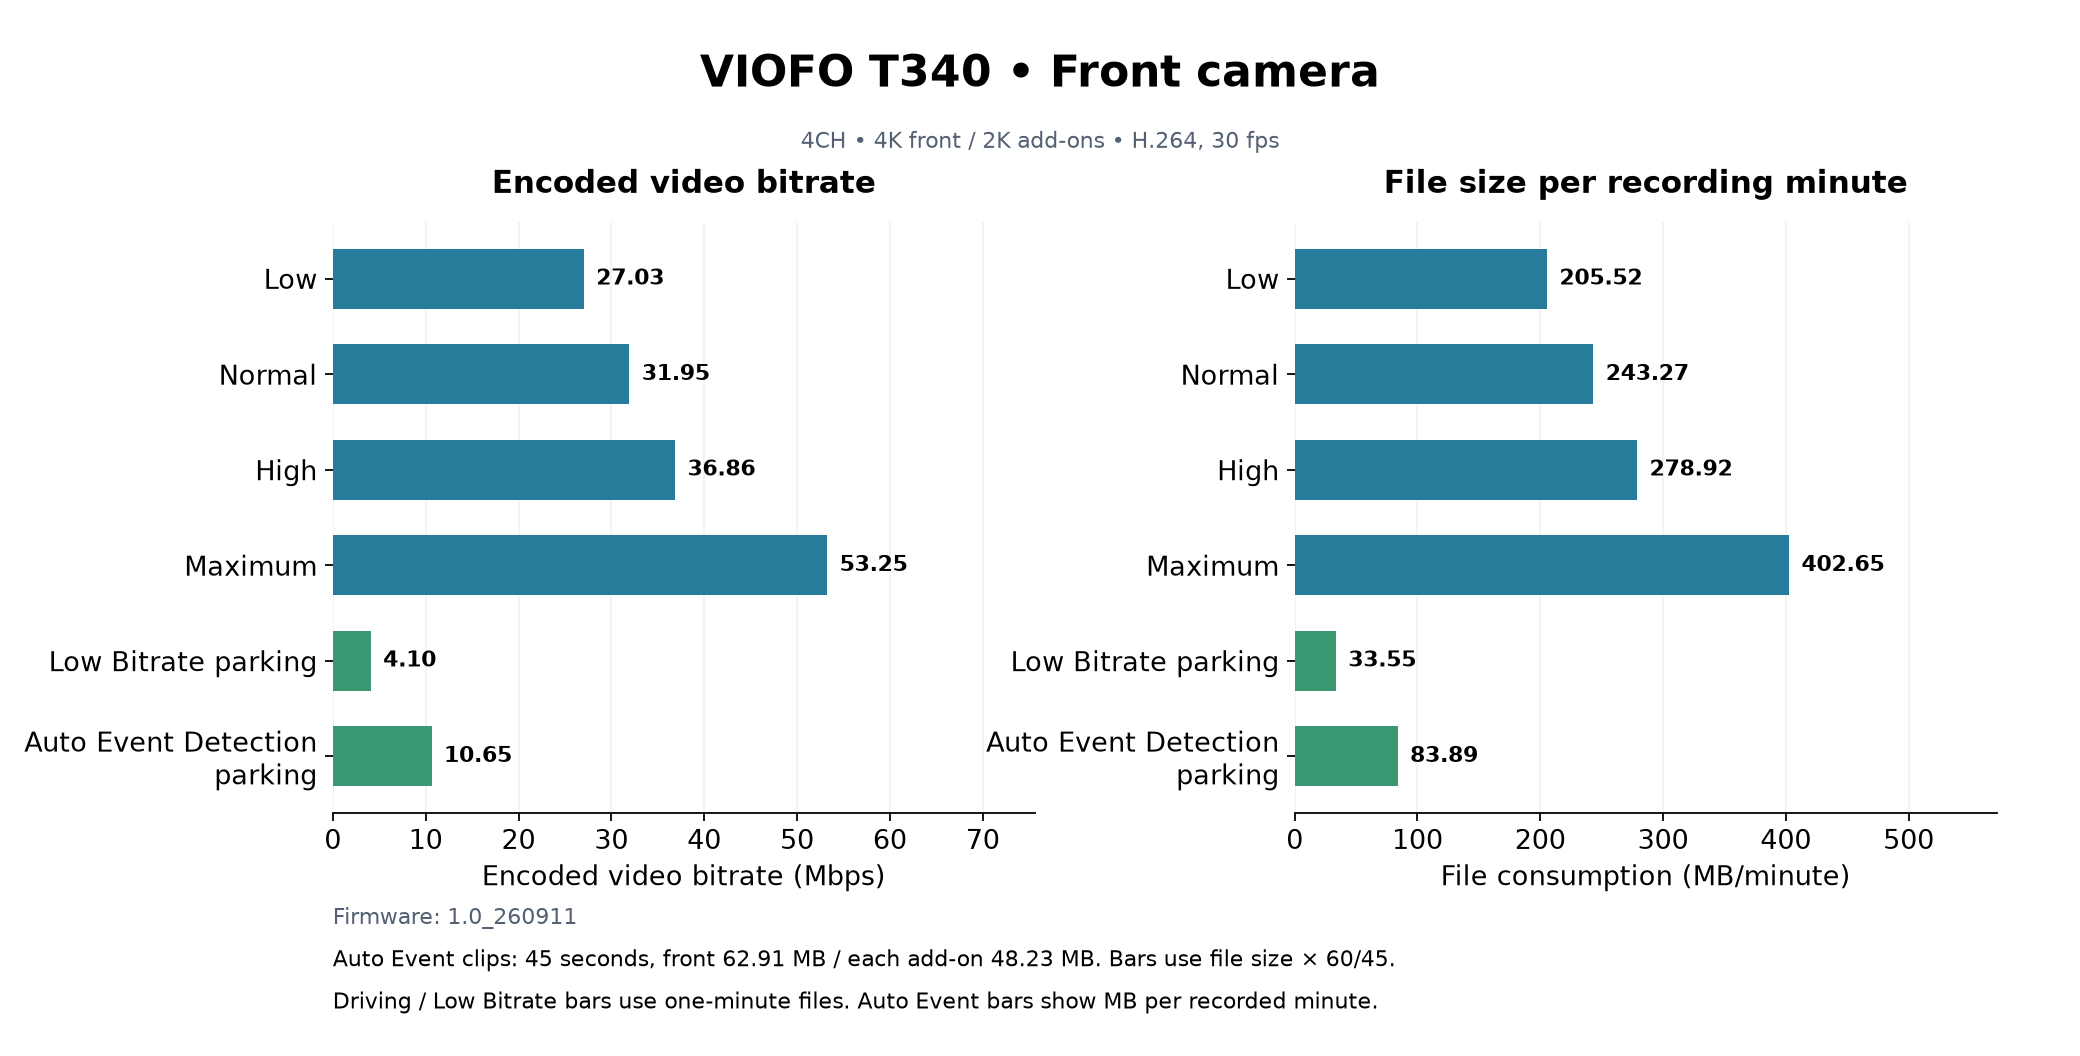
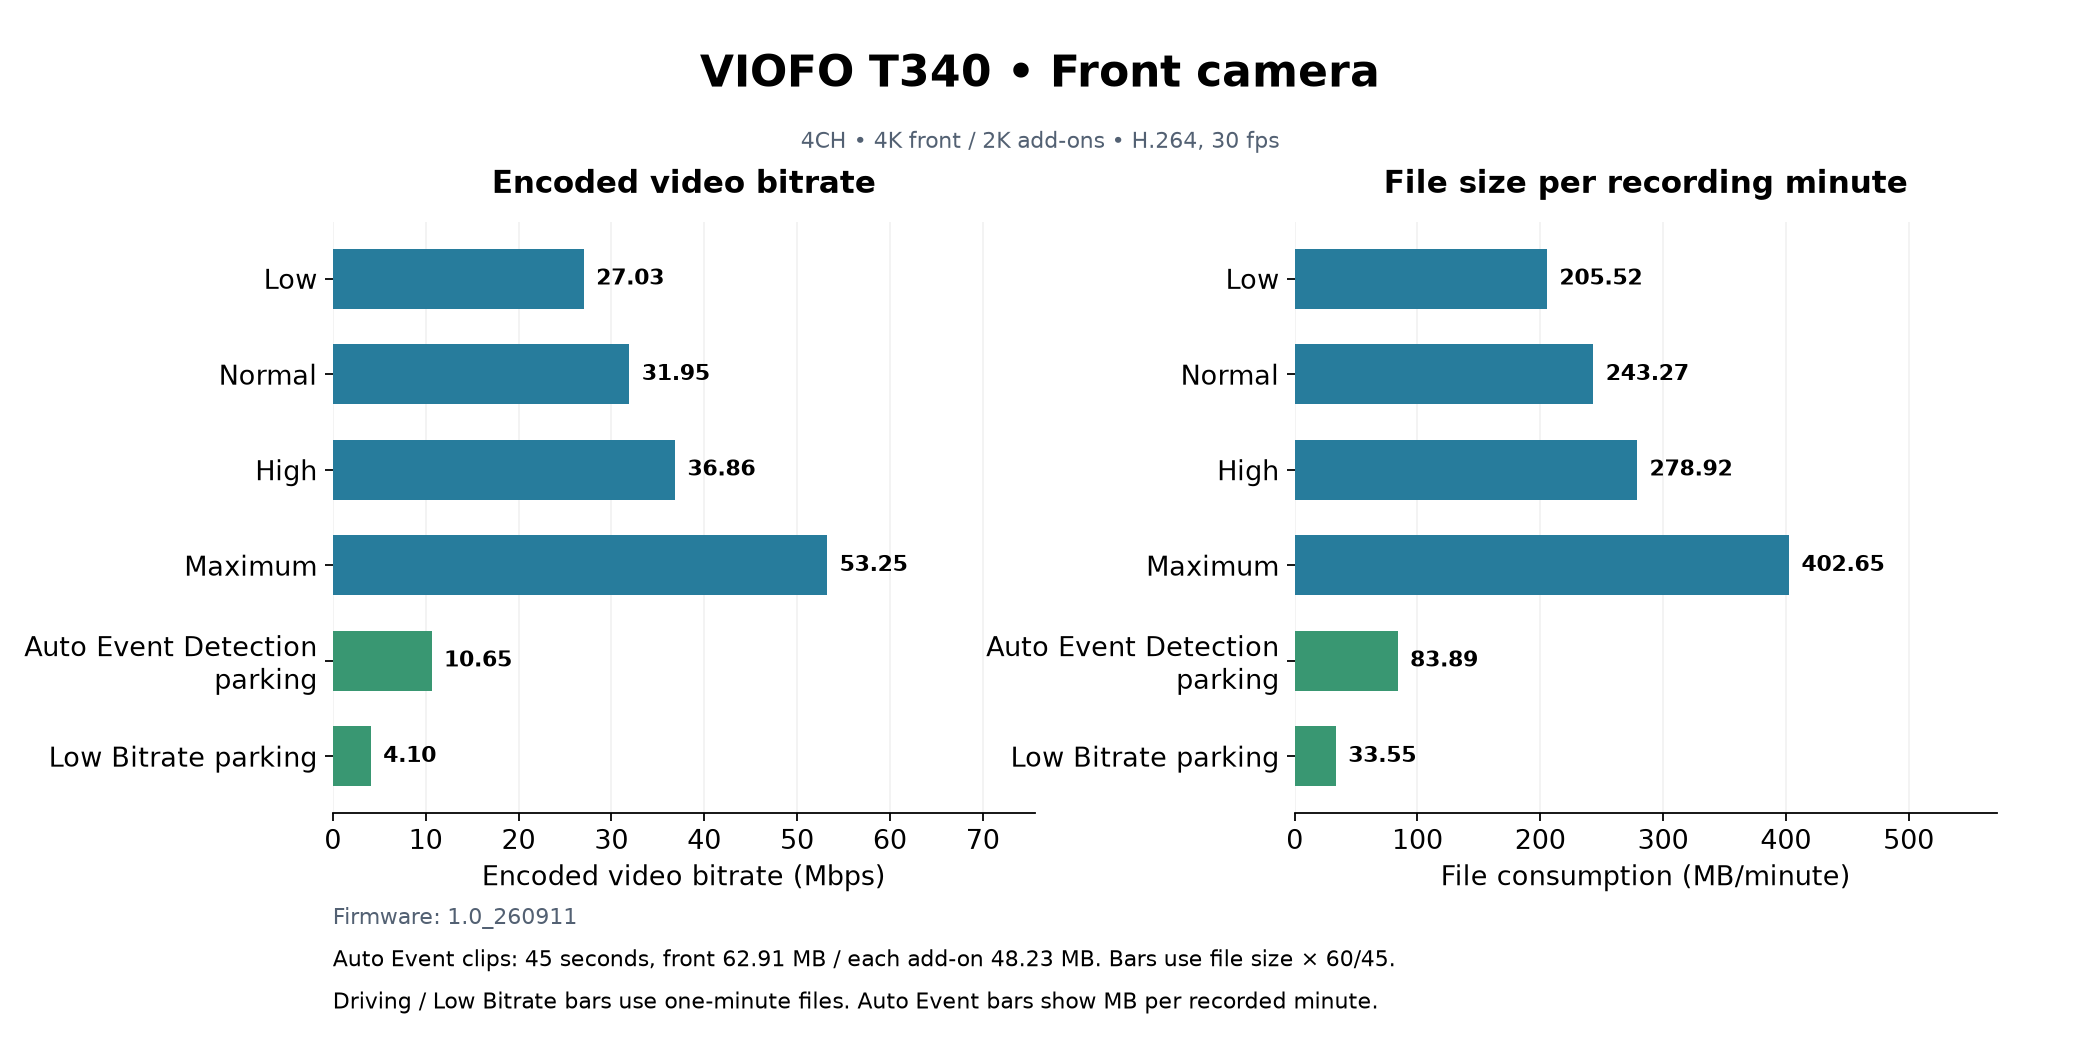
Put Low Bitrate below Auto Event and version chart image links

diff --git a/docs/t340-comparison.html b/docs/t340-comparison.html
@@ -1,1 +1,1 @@
-<!doctype html><html lang="en"><meta charset="utf-8"><meta name="viewport" content="width=device-width,initial-scale=1"><title>T340 bitrate and storage charts</title><style>body{font:16px system-ui;margin:32px auto;max-width:1100px;padding:0 18px;color:#182733;line-height:1.6}img{width:100%;height:auto}section{margin:32px 0}a{color:#146c93}table{border-collapse:collapse;width:100%}th,td{text-align:left;padding:10px;border-bottom:1px solid #ddd}.scroll{overflow:auto}</style><a href="./">Camera reference</a><h1>VIOFO T340: bitrate, file size and recording capacity</h1><p>Measured metadata reviewed 2026-10-08. Four-channel driving, three-channel Maximum, and distinct parking settings.</p><p><strong>Firmware: 1.0_260911.</strong> Bitrate panels measure encoded video; file panels measure whole files. Rear, interior and telephoto are shown separately: their sampled driving rates differ by less than 0.01 Mbps and their measured full-minute file sizes match.</p><p>Normal: 243.27 MB per minute front and 111.15 MB per minute for each add-on. All storage bars use measured files, with no video-only estimates.</p><section><h2>Front camera</h2><a href="assets/t340/front.png"><img src="assets/t340/front.png" alt="Front camera" loading="lazy"></a><p><a href="assets/t340/front.svg">SVG</a> · <a href="assets/t340/front.png">PNG</a></p></section><section><h2>Rear, interior and telephoto</h2><a href="assets/t340/add-ons.png"><img src="assets/t340/add-ons.png" alt="Rear, interior and telephoto" loading="lazy"></a><p><a href="assets/t340/add-ons.svg">SVG</a> · <a href="assets/t340/add-ons.png">PNG</a></p></section><section><h2>Combined storage and capacity</h2><a href="assets/t340/combined.png"><img src="assets/t340/combined.png" alt="Combined storage and capacity" loading="lazy"></a><p><a href="assets/t340/combined.svg">SVG</a> · <a href="assets/t340/combined.png">PNG</a></p></section><section><h2>Parking mode comparison</h2><a href="assets/t340/parking.png"><img src="assets/t340/parking.png" alt="Parking mode comparison" loading="lazy"></a><p><a href="assets/t340/parking.svg">SVG</a> · <a href="assets/t340/parking.png">PNG</a></p></section><h2>Combined measurements</h2><div class="scroll"><table><tr><th>Setting</th><th>Cameras</th><th>MB/min</th><th>GB/hour</th><th>256 GB recorded time</th><th>Storage evidence</th></tr><tr><td>Low</td><td>4</td><td>482.34</td><td>28.94</td><td>8 h 51 min</td><td>Measured files</td></tr><tr><td>Normal</td><td>4</td><td>576.72</td><td>34.60</td><td>7 h 24 min</td><td>Measured files</td></tr><tr><td>High</td><td>4</td><td>763.36</td><td>45.80</td><td>5 h 35 min</td><td>Measured files</td></tr><tr><td>Maximum</td><td>4</td><td>1019.22</td><td>61.15</td><td>4 h 11 min</td><td>Measured files</td></tr><tr><td>Maximum 3CH</td><td>3</td><td>813.69</td><td>48.82</td><td>5 h 15 min</td><td>Measured files</td></tr><tr><td>Auto Event Detection parking</td><td>4</td><td>276.82</td><td>16.61</td><td>15 h 25 min</td><td>Measured files</td></tr><tr><td>Low Bitrate parking</td><td>4</td><td>134.22</td><td>8.05</td><td>31 h 47 min</td><td>Measured files</td></tr></table></div><h2>Measurement notes</h2><p>Driving file bars use measured 60-second files, separated by quality setting. Auto Event Detection bars use 45-second files converted to one recording minute. Individual camera rates are not averaged together.</p><ul><li>256 GB driving hours assume all nominal capacity is available; formatting, protected files and reserved space reduce usable capacity.</li><li>One other 45-second Auto Event Detection telephoto file measured 6.013237 Mbps and 35.65 MB. It includes a near-black section where bitrate falls to about 0.95 Mbps, then returns to about 8.19 Mbps. This is within-clip rate variation, not a separate measured parking setting.</li><li>The Auto Event bars describe the measured 45-second files, not every motion or impact recording.</li><li>Firmware: 1.0_260911. HDR and multiplexing were not controlled across all quality scans.</li></ul><p><a href="assets/t340/measurements.csv">Download CSV</a> · <a href="data/t340-quality-comparison.json">Reviewed data JSON</a> · <a href="https://github.com/vortexopenclaw/dashcam-offloader/blob/main/docs/card-profiles/viofo-t340.md">Evidence notes</a></p></html>
+<!doctype html><html lang="en"><meta charset="utf-8"><meta name="viewport" content="width=device-width,initial-scale=1"><title>T340 bitrate and storage charts</title><style>body{font:16px system-ui;margin:32px auto;max-width:1100px;padding:0 18px;color:#182733;line-height:1.6}img{width:100%;height:auto}section{margin:32px 0}a{color:#146c93}table{border-collapse:collapse;width:100%}th,td{text-align:left;padding:10px;border-bottom:1px solid #ddd}.scroll{overflow:auto}</style><a href="./">Camera reference</a><h1>VIOFO T340: bitrate, file size and recording capacity</h1><p>Measured metadata reviewed 2026-10-08. Four-channel driving, three-channel Maximum, and distinct parking settings.</p><p><strong>Firmware: 1.0_260911.</strong> Bitrate panels measure encoded video; file panels measure whole files. Rear, interior and telephoto are shown separately: their sampled driving rates differ by less than 0.01 Mbps and their measured full-minute file sizes match.</p><p>Normal: 243.27 MB per minute front and 111.15 MB per minute for each add-on. All storage bars use measured files, with no video-only estimates.</p><section><h2>Front camera</h2><a href="assets/t340/front.png?v=f204981038fb"><img src="assets/t340/front.png?v=f204981038fb" alt="Front camera" loading="lazy"></a><p><a href="assets/t340/front.svg?v=80c98c200d76">SVG</a> · <a href="assets/t340/front.png?v=f204981038fb">PNG</a></p></section><section><h2>Rear, interior and telephoto</h2><a href="assets/t340/add-ons.png?v=49f19d6dd1fe"><img src="assets/t340/add-ons.png?v=49f19d6dd1fe" alt="Rear, interior and telephoto" loading="lazy"></a><p><a href="assets/t340/add-ons.svg?v=5672bfdb3692">SVG</a> · <a href="assets/t340/add-ons.png?v=49f19d6dd1fe">PNG</a></p></section><section><h2>Combined storage and capacity</h2><a href="assets/t340/combined.png?v=e5c82a705c3b"><img src="assets/t340/combined.png?v=e5c82a705c3b" alt="Combined storage and capacity" loading="lazy"></a><p><a href="assets/t340/combined.svg?v=2bf225917af5">SVG</a> · <a href="assets/t340/combined.png?v=e5c82a705c3b">PNG</a></p></section><section><h2>Parking mode comparison</h2><a href="assets/t340/parking.png?v=620389758059"><img src="assets/t340/parking.png?v=620389758059" alt="Parking mode comparison" loading="lazy"></a><p><a href="assets/t340/parking.svg?v=7d26c1a88216">SVG</a> · <a href="assets/t340/parking.png?v=620389758059">PNG</a></p></section><h2>Combined measurements</h2><div class="scroll"><table><tr><th>Setting</th><th>Cameras</th><th>MB/min</th><th>GB/hour</th><th>256 GB recorded time</th><th>Storage evidence</th></tr><tr><td>Low</td><td>4</td><td>482.34</td><td>28.94</td><td>8 h 51 min</td><td>Measured files</td></tr><tr><td>Normal</td><td>4</td><td>576.72</td><td>34.60</td><td>7 h 24 min</td><td>Measured files</td></tr><tr><td>High</td><td>4</td><td>763.36</td><td>45.80</td><td>5 h 35 min</td><td>Measured files</td></tr><tr><td>Maximum</td><td>4</td><td>1019.22</td><td>61.15</td><td>4 h 11 min</td><td>Measured files</td></tr><tr><td>Maximum 3CH</td><td>3</td><td>813.69</td><td>48.82</td><td>5 h 15 min</td><td>Measured files</td></tr><tr><td>Auto Event Detection parking</td><td>4</td><td>276.82</td><td>16.61</td><td>15 h 25 min</td><td>Measured files</td></tr><tr><td>Low Bitrate parking</td><td>4</td><td>134.22</td><td>8.05</td><td>31 h 47 min</td><td>Measured files</td></tr></table></div><h2>Measurement notes</h2><p>Driving file bars use measured 60-second files, separated by quality setting. Auto Event Detection bars use 45-second files converted to one recording minute. Individual camera rates are not averaged together.</p><ul><li>256 GB driving hours assume all nominal capacity is available; formatting, protected files and reserved space reduce usable capacity.</li><li>One other 45-second Auto Event Detection telephoto file measured 6.013237 Mbps and 35.65 MB. It includes a near-black section where bitrate falls to about 0.95 Mbps, then returns to about 8.19 Mbps. This is within-clip rate variation, not a separate measured parking setting.</li><li>The Auto Event bars describe the measured 45-second files, not every motion or impact recording.</li><li>Firmware: 1.0_260911. HDR and multiplexing were not controlled across all quality scans.</li></ul><p><a href="assets/t340/measurements.csv">Download CSV</a> · <a href="data/t340-quality-comparison.json">Reviewed data JSON</a> · <a href="https://github.com/vortexopenclaw/dashcam-offloader/blob/main/docs/card-profiles/viofo-t340.md">Evidence notes</a></p></html>

diff --git a/scripts/build-t340-charts.py b/scripts/build-t340-charts.py
@@ -2,6 +2,7 @@
 """Render reviewed, privacy-safe T340 measurements; requires matplotlib."""
 import csv
 import html
+import hashlib
 import json
 from pathlib import Path
 import matplotlib
@@ -30,7 +31,7 @@ def finish(fig, name):
     plt.close(fig)
 
 def per_camera(front):
-    rows = [*ROWS[:5], ROWS[6]]
+    rows = [*ROWS[:4], ROWS[6], ROWS[4]]
     fig, axes = plt.subplots(1,2,figsize=(13,6.6))
     fig.subplots_adjust(left=.16,right=.96,top=.79,bottom=.23,wspace=.37)
     title = 'Front camera' if front else 'Add-on cameras: rear / interior / telephoto'
@@ -116,7 +117,11 @@ with (OUT/'measurements.csv').open('w',newline='') as f:
         for c in r['channels']:
             writer.writerow({k:(c.get(k) if k in c else r.get(k)) for k in fields})
 
-images=''.join(f'<section><h2>{title}</h2><a href="assets/t340/{name}.png"><img src="assets/t340/{name}.png" alt="{title}" loading="lazy"></a><p><a href="assets/t340/{name}.svg">SVG</a> · <a href="assets/t340/{name}.png">PNG</a></p></section>' for name,title in [('front','Front camera'),('add-ons','Rear, interior and telephoto'),('combined','Combined storage and capacity'),('parking','Parking mode comparison')])
+def asset_url(name, extension):
+    version = hashlib.sha256((OUT / f'{name}.{extension}').read_bytes()).hexdigest()[:12]
+    return f'assets/t340/{name}.{extension}?v={version}'
+
+images=''.join(f'<section><h2>{title}</h2><a href="{asset_url(name, "png")}"><img src="{asset_url(name, "png")}" alt="{title}" loading="lazy"></a><p><a href="{asset_url(name, "svg")}">SVG</a> · <a href="{asset_url(name, "png")}">PNG</a></p></section>' for name,title in [('front','Front camera'),('add-ons','Rear, interior and telephoto'),('combined','Combined storage and capacity'),('parking','Parking mode comparison')])
 def display(value):
     return f'{value:.2f}' if value is not None else 'Pending'
 table=''.join('<tr>'+''.join(f'<td>{v}</td>' for v in [html.escape(r['setting']),r['channelCount'],display(r['combinedMBPerMinute']),display(r['combinedGBPerHour']),recorded_time(r['nominal256GBRecordedHours']),'Measured files'])+'</tr>' for r in combined_rows)
